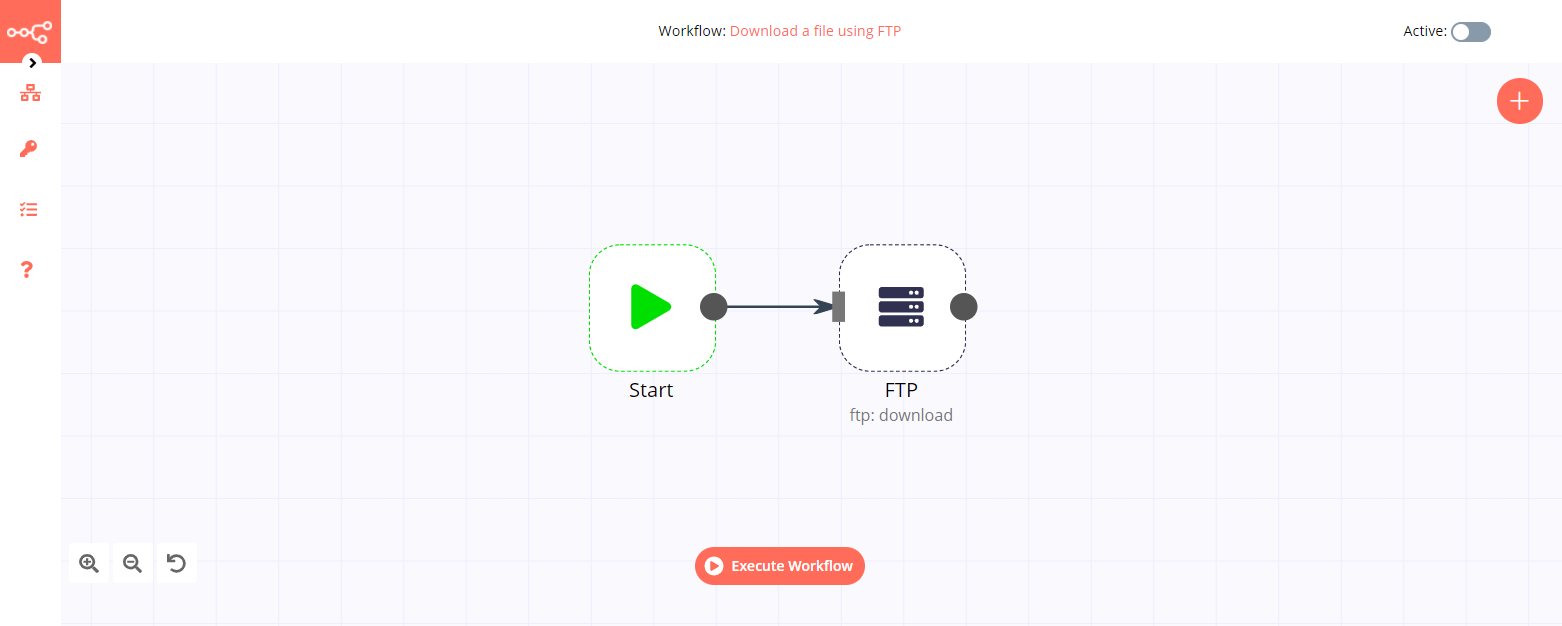
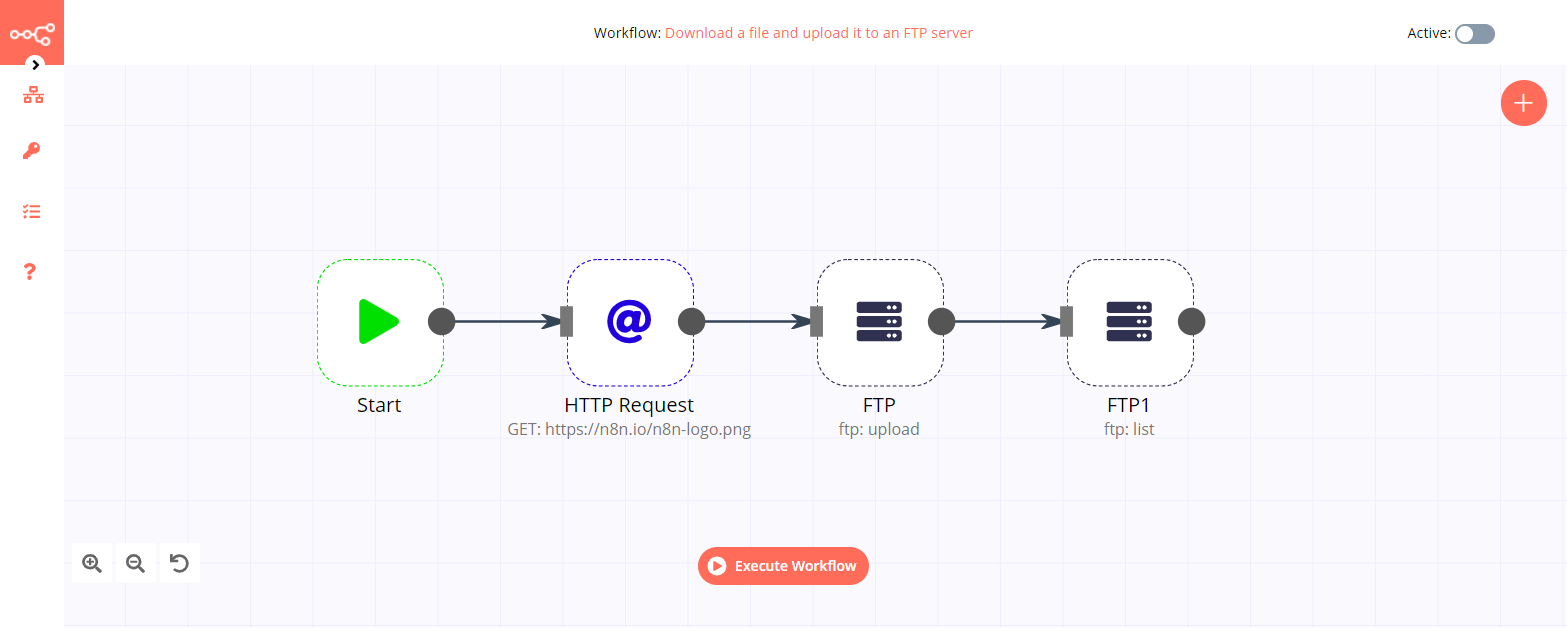
:sparkles: Add FTP node documentation

diff --git a/docs/nodes/nodes-library/core-nodes/FTP/README.md b/docs/nodes/nodes-library/core-nodes/FTP/README.md
@@ -26,8 +26,9 @@ You can find authentication information for this node [here](../../../credential
 
 ## Example Usage
 
-This workflow allows you to download a file from an FTP server using the FTP node. You can also find the [workflow](https://n8n.io/workflows/663) on n8n.io. This example usage workflow would use the following nodes.
+This workflow allows you to download a file, upload it to an FTP server and get a list of all files using the FTP node. You can also find the [workflow](https://n8n.io/workflows/663) on n8n.io. This example usage workflow would use the following nodes.
 - [Start](../../core-nodes/Start/README.md)
+- [HTTP Request](../../core-nodes/HTTPRequest/README.md)
 - [FTP]()
 
 The final workflow should look like the following image.
@@ -38,8 +39,28 @@ The final workflow should look like the following image.
 
 The start node exists by default when you create a new workflow.
 
-### 2. FTP node (ftp: download)
+### 2. HTTP Request node
+
+1. Enter the URL of the file you want to download in the ***URL*** field.
+2. Select ***File*** from the ***Response Format*** dropdown list.
+3. Click on ***Execute Node*** to run the workflow.
+
+![Downloading a file with the HTTP Request node](./HTTPRequest_node.png)
+
+### 3. FTP node (ftp: upload)
 
 1. First of all, you'll have to enter credentials for the Send Email node. You can find out how to do that [here](../../../credentials/FTP/README.md).
-2. Enter the path of the file you want to download in the ***Path*** field.
-3. Click on ***Execute Node*** to run the workflow.
+2. Select ***Upload*** from the ***Operation*** dropdown list.
+3. Enter the path where you would like to upload the file in the ***Path*** field.
+4. Click on ***Execute Node*** to run the workflow.
+
+![Uploading a file with the FTP node](./FTP_node.png)
+
+### 4. FTP1 node (ftp: list)
+
+1. Select the credentials that you entered in the previous node.
+2. Select ***List*** from the ***Operation*** dropdown list.
+3. Enter the path to the folder where you uploaded the file in the previous step in the ***Path*** field.
+4. Click on ***Execute Node*** to run the workflow.
+
+![Getting a list of files with the FTP node](./FTP1_node.png)
